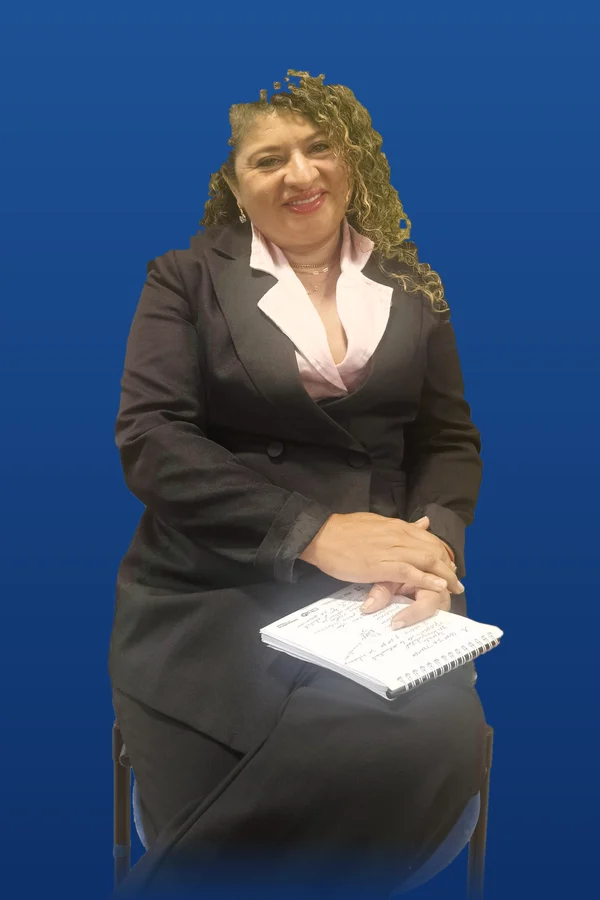
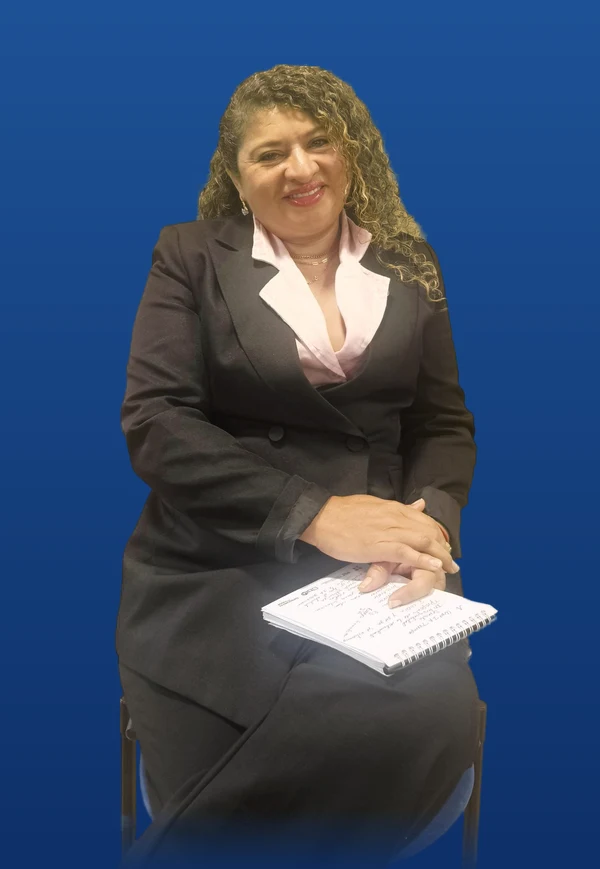
Foto de la fundadora recortada con IA: cabello y hombros completos
Claude-Session: https://claude.ai/code/session_012goinonkEPx2tjFqhvgqSr

diff --git a/src/components/founder-card.tsx b/src/components/founder-card.tsx
@@ -14,7 +14,7 @@ const highlights = [
 
 export function FounderCard({ compact = false }: { compact?: boolean }) {
   return <section className={`founder ${compact ? "founder-compact" : ""}`} aria-labelledby="founder-title">
-    <img src={photo} width={600} height={900} loading="lazy" alt="Dra. Enadis Ester Vargas Hernández, fundadora de EDUCALEX" className="founder-photo" />
+    <img src={photo} width={600} height={869} loading="lazy" alt="Dra. Enadis Ester Vargas Hernández, fundadora de EDUCALEX" className="founder-photo" />
     <div className="founder-body">
       <p className="founder-kicker">Quién crea EDUCALEX</p>
       <h2 id="founder-title">Dra. Enadis Ester Vargas Hernández</h2>
